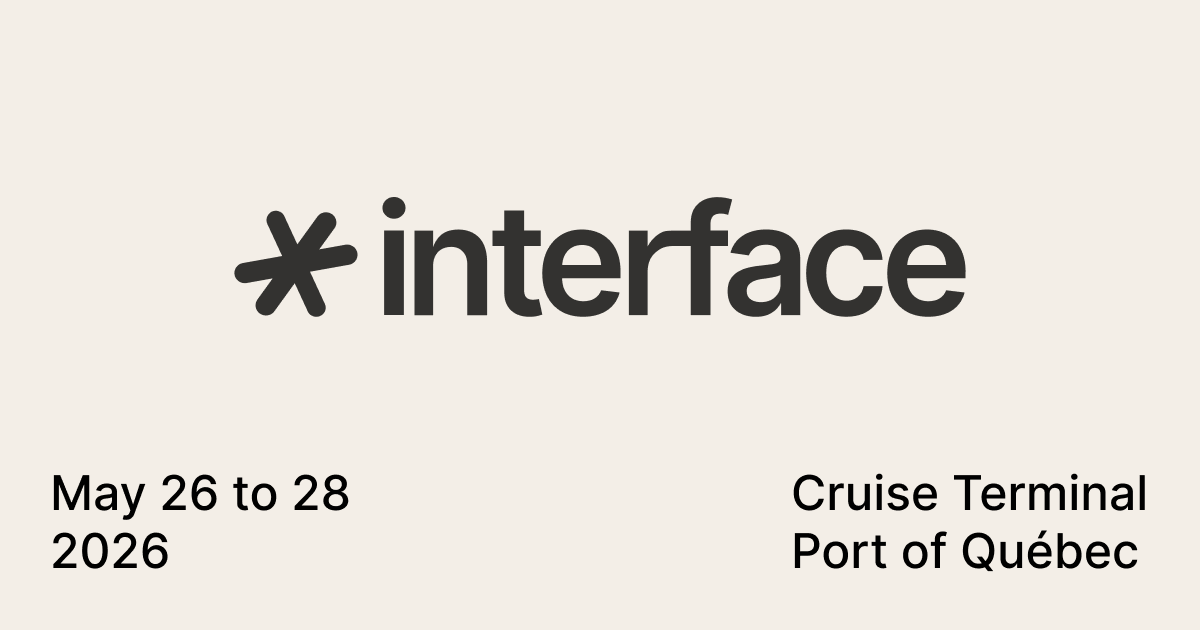
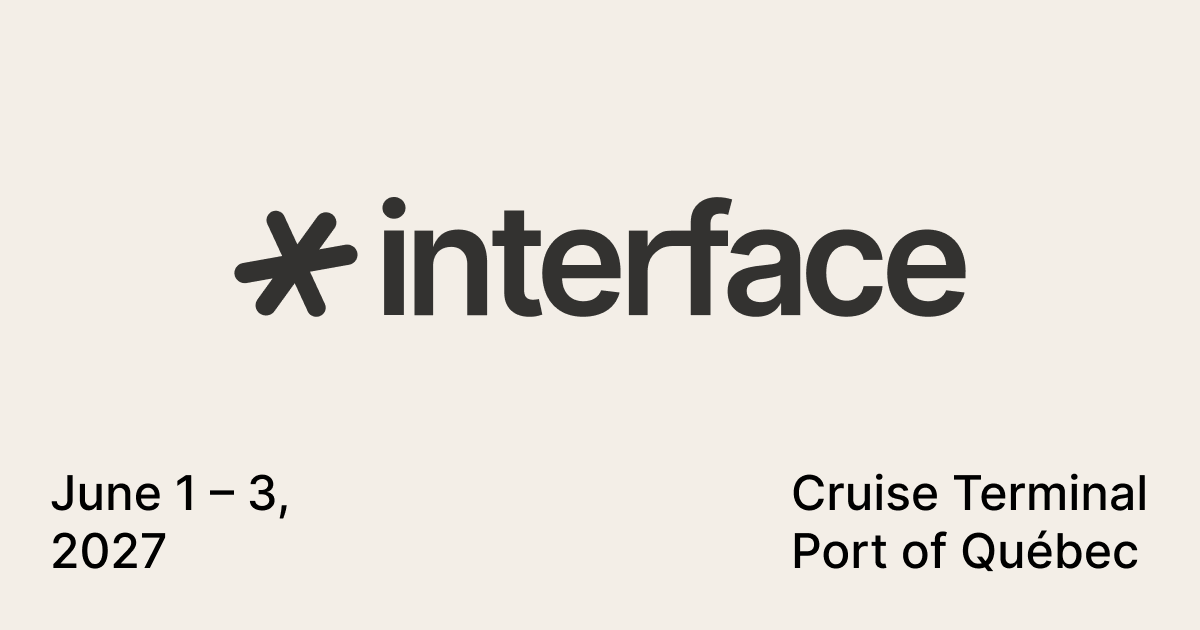
[FEATURE] Ajuster les dates pour 2027

Changed region(s): [[0.0308, 0.754, 0.3083, 0.8143], [0.0925, 0.8444, 0.1542, 0.9048]]

diff --git a/nuxt.config.ts b/nuxt.config.ts
@@ -61,46 +61,12 @@ export default defineNuxtConfig({
     ],
     runtimeConfig: {
         public: {
-            start_date: '2026-05-26T00:00:00',
-            end_date: '2026-05-28T00:00:00',
+            start_date: '2027-06-01T00:00:00',
+            end_date: '2027-06-03T00:00:00',
             ticketing_url: 'https://ti.to/cnum/interface2027',
             commitTag: process.env.COMMIT_TAG || process.env.NUXT_ENV_CURRENT_GIT_TAG,
             commitShortSha: process.env.COMMIT_SHORT_SHA || process.env.NUXT_ENV_CURRENT_GIT_SHA,
             swapcardGraphqlEndpoint: process.env.NUXT_PUBLIC_SWAPCARD_GRAPHQL_ENDPOINT,
-            milestones: {
-                PRE_SALE: {
-                    start_date: '2026-05-26T00:00:00',
-                    end_date: '2026-05-28T00:00:00',
-                },
-                CALL_FOR_SPEAKER: {
-                    start_date: '2026-05-26T00:00:00',
-                    end_date: '2026-05-28T00:00:00',
-                },
-                CALL_FOR_VOLUNTEERS: {
-                    start_date: '2026-05-26T00:00:00',
-                    end_date: '2026-05-28T00:00:00',
-                },
-                TICKET_SALE: {
-                    start_date: '2026-05-26T00:00:00',
-                    end_date: '2026-05-28T00:00:00',
-                },
-                EVENT: {
-                    start_date: '2026-05-26T00:00:00',
-                    end_date: '2026-05-28T00:00:00',
-                },
-                THANK_YOU: {
-                    start_date: '2026-05-26T00:00:00',
-                    end_date: '2026-05-28T00:00:00',
-                },
-                APP_AVAILABLE: {
-                    start_date: '2026-05-26T00:00:00',
-                    end_date: '2026-05-28T00:00:00',
-                },
-                REPLAY_AVAILABLE: {
-                    start_date: '2026-05-26T00:00:00',
-                    end_date: '2026-05-28T00:00:00',
-                },
-            },
         },
         swapcardToken: process.env.NUXT_SWAPCARD_AUTH_TOKEN,
         swapcardCommunityId: process.env.NUXT_SWAPCARD_COMMUNITY_ID,
